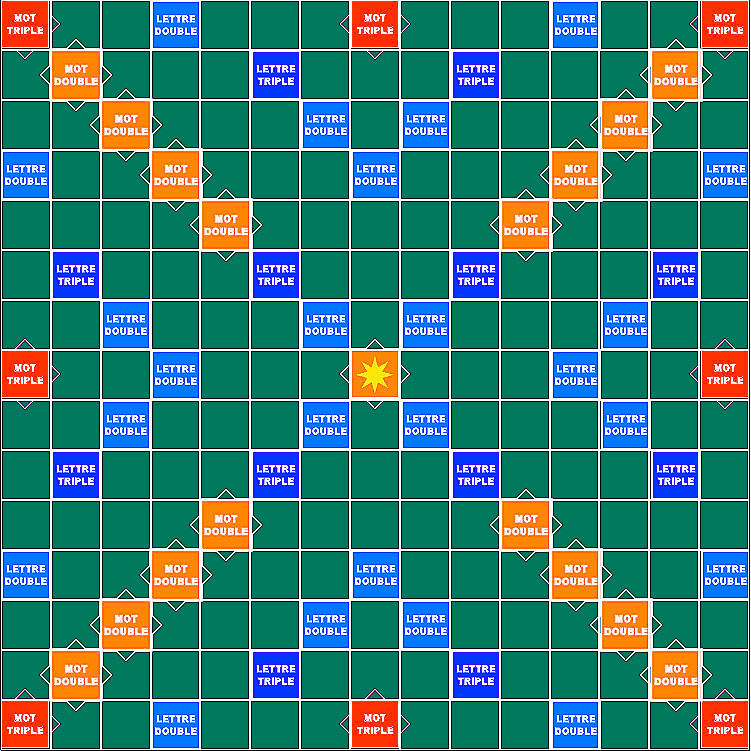
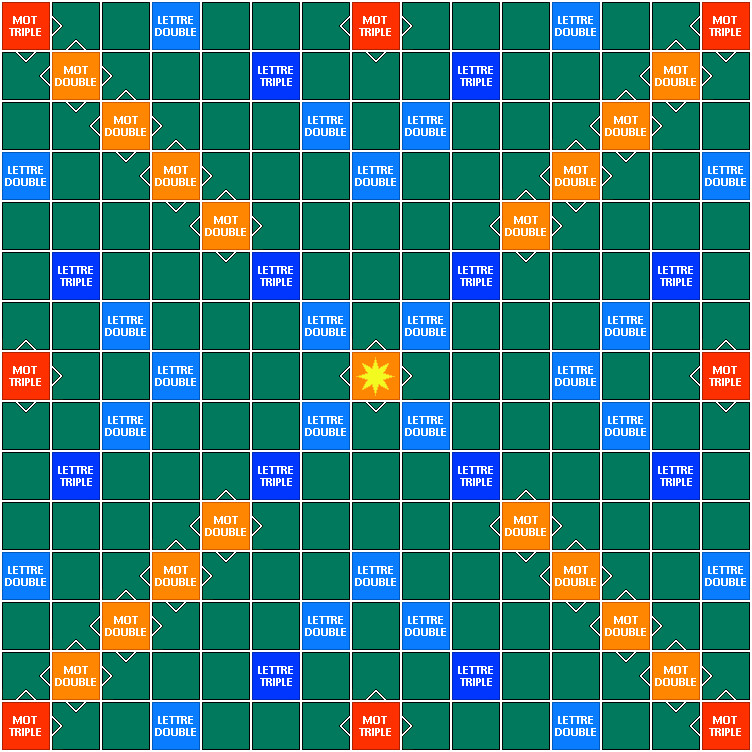
refonte du plateau

Changed region(s): [[0.0, 0.0, 1.0, 1.0]]

diff --git a/interface_game.py b/interface_game.py
@@ -18,7 +18,7 @@ with open("options.txt", 'r') as fichier :
     chargement = fichier.readlines()
     format_ecran = int(chargement[0])
 if format_ecran == 0 :
-    screen_size = (1080,751)
+    screen_size = (1080,752)
 else :
     screen_size = (1080,849)
 
@@ -38,7 +38,7 @@ if format_ecran == 0 :
     coord_chevalet = (20,0)
     
     # chevalet
-    chevalet_rect = pygame.Rect(coord_chevalet[0] ,coord_chevalet[1], 58, 751) # chevalet
+    chevalet_rect = pygame.Rect(coord_chevalet[0] ,coord_chevalet[1], 58, 752) # chevalet
     
     # bouton valider
     bouton_valider_coordonnees = (875,672)
@@ -123,7 +123,7 @@ else :
     texte_aff_coordonnees_2 = (915,390)
     lim_carac = 35
 # Création liste des coordonnées de toute les cases
-coord_case_plateau = [[(coord_plateau[0]+1+50*i , coord_plateau[1]+1+50*j) for j in range(15)] for i in range(15)] # plateau
+coord_case_plateau = [[(coord_plateau[0]+2+50*i , coord_plateau[1]+2+50*j) for j in range(15)] for i in range(15)] # plateau
 coord_case_chevalet = [((coord_chevalet[0]+5 , coord_chevalet[1]+52+100*i) if format_ecran == 0 else
                                 (coord_chevalet[0]+52+100*i, coord_chevalet[1]+5)) for i in range(7)] # chevalet
 
@@ -202,7 +202,7 @@ def affichage_score(joueurs,tour) :
         j=1
         for i in score :
             y = i[0]*50-50
-            classement_coord = (751,y)
+            classement_coord = (752,y)
             classement_width = 30
             classement_heigth = 50
             if j<=3 :
@@ -302,7 +302,7 @@ def griser_lettre (lettre) :
     
 # convertie des coordonnée en pixel en coordonnée de la case la plus proche
 def convert_px_coord(x, y) :
-    if coord_plateau[0] < x < coord_plateau[0]+751 and coord_plateau[1] < y < coord_plateau[1]+751 :
+    if coord_plateau[0] < x < coord_plateau[0]+752 and coord_plateau[1] < y < coord_plateau[1]+752 :
         x -= coord_plateau[0]
         y -= coord_plateau[1]
         x = round(x/50)
@@ -312,7 +312,7 @@ def convert_px_coord(x, y) :
         if y == 15 :
             y = 14
         return "plateau", (y, x)  # car coord inversées
-    elif format_ecran == 0 and coord_chevalet[0] < x < coord_chevalet[0]+58 and coord_chevalet[1] < y < coord_chevalet[1]+751:
+    elif format_ecran == 0 and coord_chevalet[0] < x < coord_chevalet[0]+58 and coord_chevalet[1] < y < coord_chevalet[1]+752:
         y -= coord_chevalet[1]
         if y > 652 :
             y = 652
